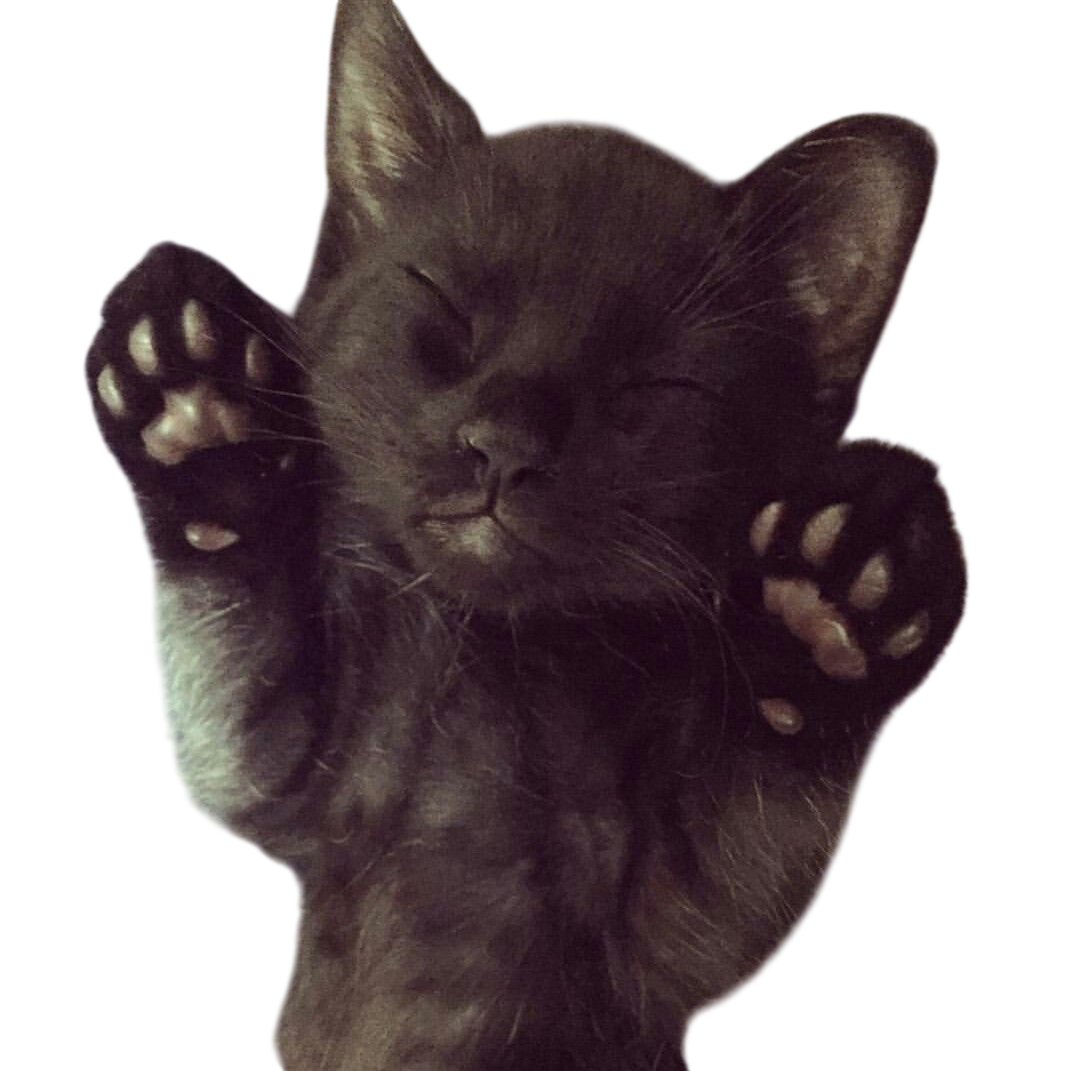
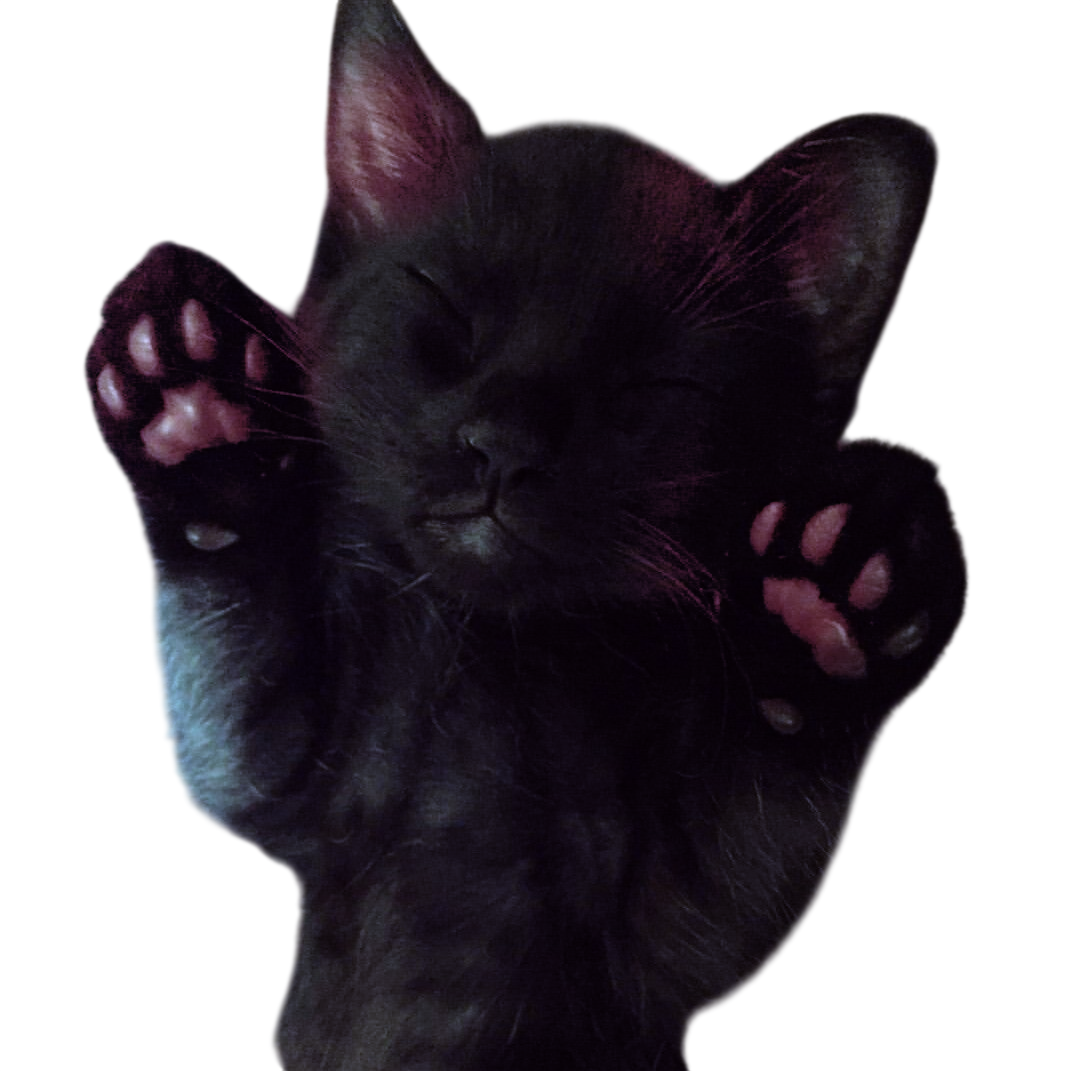
Restore pink tones in cat paws and ears while keeping fur black

diff --git a/public/backtrack/styles.css b/public/backtrack/styles.css
@@ -1051,7 +1051,7 @@ body {
 }
 
 .dog-avatar-anchor.is-cat img {
-    filter: drop-shadow(0 -4px 14px rgba(0, 0, 0, 0.65)) saturate(0.1) brightness(0.76) contrast(1.2);
+    filter: drop-shadow(0 -4px 14px rgba(0, 0, 0, 0.65));
 }
 
 @media (max-width: 768px) {
